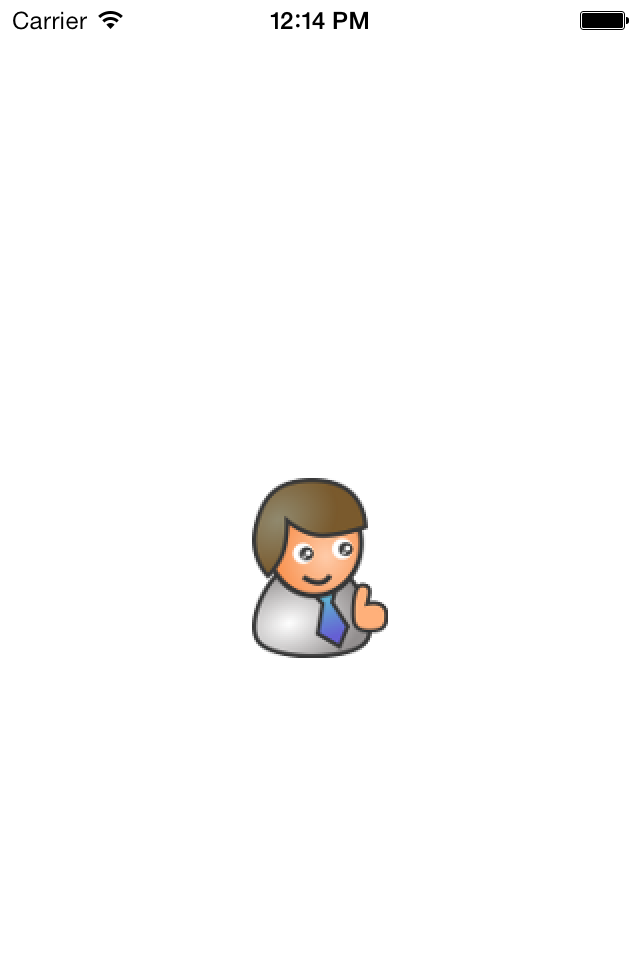
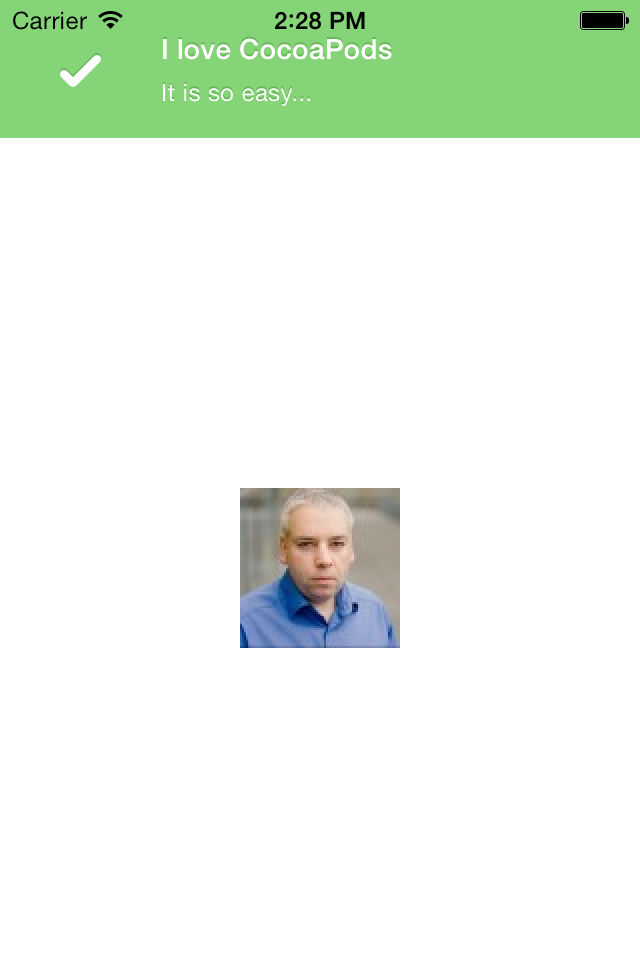
Display notification with TSMessages

Changed region(s): [[0.0, 0.0, 1.0, 0.1562], [0.375, 0.5, 0.625, 0.6875]]

diff --git a/sdImage/sdImage/ViewController.m b/sdImage/sdImage/ViewController.m
@@ -1,5 +1,6 @@
 #import "ViewController.h"
 #import <SDWebImage/UIImageView+WebCache.h>
+#import <TSMessages/TSMessage.h>
 
 static NSString* const kAvatar = @"http://gravatar.com/avatar/55b3816622d935e50098bb44c17663bc.png";
 
@@ -15,6 +16,11 @@ static NSString* const kAvatar = @"http://gravatar.com/avatar/55b3816622d935e500
     
     [_imageView setImageWithURL:[NSURL URLWithString:kAvatar]
                placeholderImage:[UIImage imageNamed:@"male.png"]];
+    
+    [TSMessage showNotificationInViewController:self
+                                          title:@"I love CocoaPods"
+                                       subtitle:@"It is so easy..."
+                                           type:TSMessageNotificationTypeSuccess];
 }
 
 - (void)didReceiveMemoryWarning
